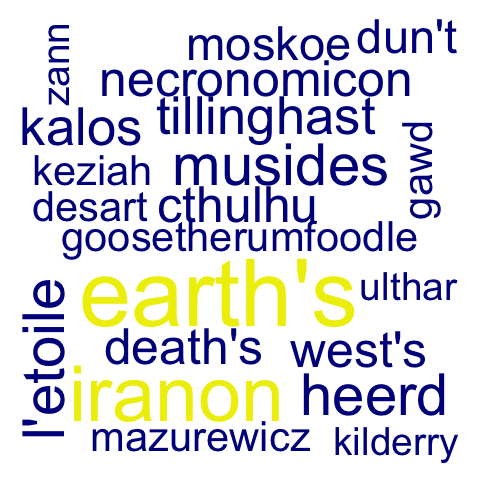
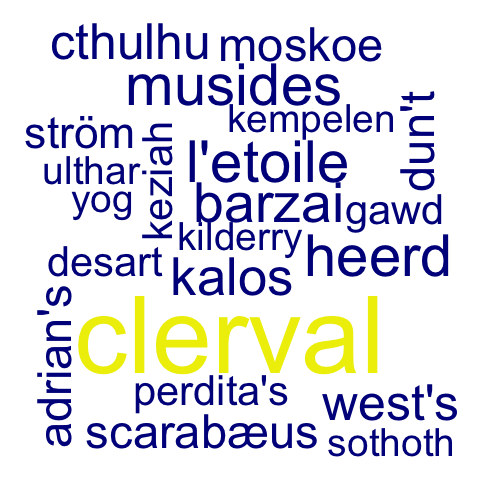
final edits

diff --git a/README.md b/README.md
@@ -37,14 +37,7 @@ I thought it might be more interesting to look at each author's use of horror vo
 I found a horror words list from (http://www.enchantedlearning.com/wordlist/halloween.shtml), which contains 205 horror words. 
 
 Here is a head() view of the first 6 elements from the horror words list:
-  vocab
-1	afraid			
-2	afterlife			
-3	alarming			
-4	alien			
-5	angel			
-6	apparition
-
+afraid, afterlife, alarming, alien, angel, apparition
 
 Then, I matched this horror words list with my spooky dataset to find which author used more horror words in writing.
 
@@ -60,10 +53,15 @@ It shows that "night" and "death" are used most frequently by the three authors.
 If we take a closer look at the most frequently used horror words by each author.
 
 EAP: 
+
 ![image](figs/Worldcloud_horrorE.png) 
+
 HPL: 
+
 ![image](figs/Worldcloud_horrorH.png) 
+
 MWS: 
+
 ![image](figs/Worldcloud_horrorM.png)
 
 It's funny how Edgar Allan Poe's most frequently used word is "night", while that of H.P. Lovecraft is "light". In general, it seems like Edgar Allan Poe and H.P. Lovecraft used more nouns such as "hand", "death" and "horror". Mary Shelley used more verbs such as "feel", "heard", and "found".
@@ -92,15 +90,32 @@ We know that all of the three authors have made significant contributions to the
 
 I found a OED dictionary database from (https://github.com/dwyl/english-words/blob/master/words.txt), which contains 466,455 common English words. Then I matched my text data with this dictionary database, and analyzed on how many non-OED words each author used.
 
+![image](figs/oedall.png)
+
 ![image](figs/oed.png)
 
-From the graph, H.P. Lovecraft used more non-OED words than the others, Edgar Allan Poe used more non-OED words than Mary Shelley, who only used a few non-OED words in her writings. 
+From graphs above, H.P. Lovecraft used more non-OED words than the others, Edgar Allan Poe used more non-OED words than Mary Shelley, who used fewer non-OED words in her writings. 
 
-This finding supports existed recognitions of three authors' language contributions. Both Edgar Allan Poe and Mary Shelley have many of their own creation of words included in the OED. H.P. Lovecraft is known for his unique nomenclature, which has inspired many generations of horror writers.
+This finding supports existed recognitions of three authors' language contributions -- both Edgar Allan Poe and Mary Shelley have many of their own creation of words included in the OED. H.P. Lovecraft is known for his unique nomenclature, which has inspired many generations of horror writers.
 
 ![image](figs/Worldcloud_oed.png)
 
 Here is a wordcloud of most frequently used non-OED words by the three authors. We see that most of these words are invented by the authors. These three author's unique nomenclature and contribution to the English language has inspired many generations of horror writers.
+
+EAP:
+
+![image](figs/Worldcloud_oedE.png)
+
+HPL:
+
+![image](figs/Worldcloud_oedH.png)
+
+MWS:
+
+![image](figs/Worldcloud_oedM.png)
+
+I also took a closer look into wordclouds of most frequently used non-OED words by each author. Although it's hard to compare those non-OED words used by each author, we can definitely conclude that all of these three authors have used nomenclature and created vocabularies in their writings.
+
 
 ## Sentiment Analysis
 
